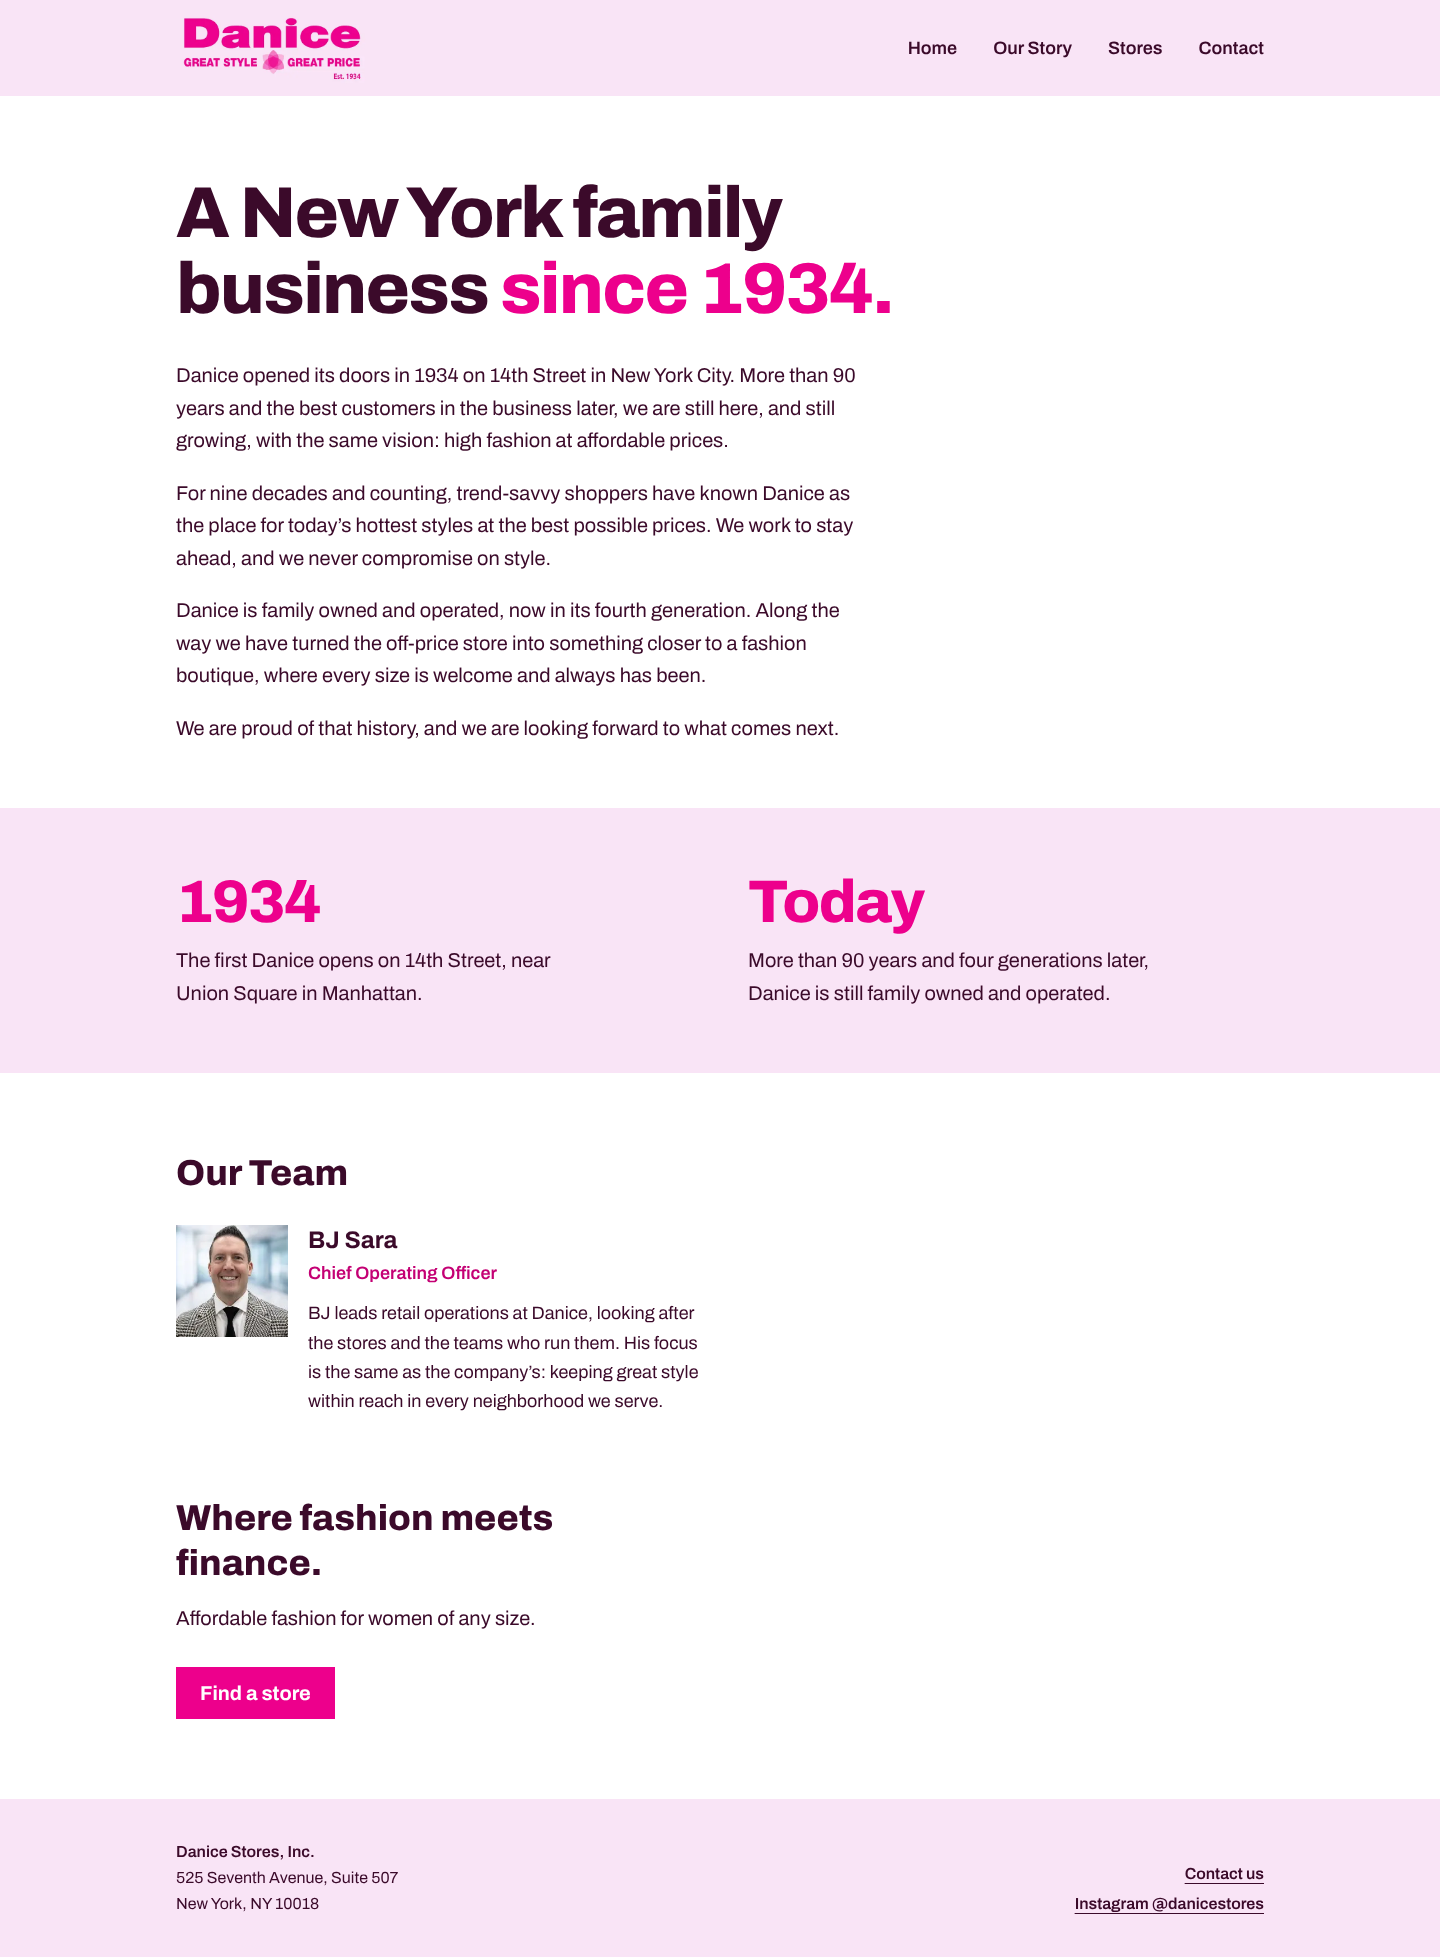
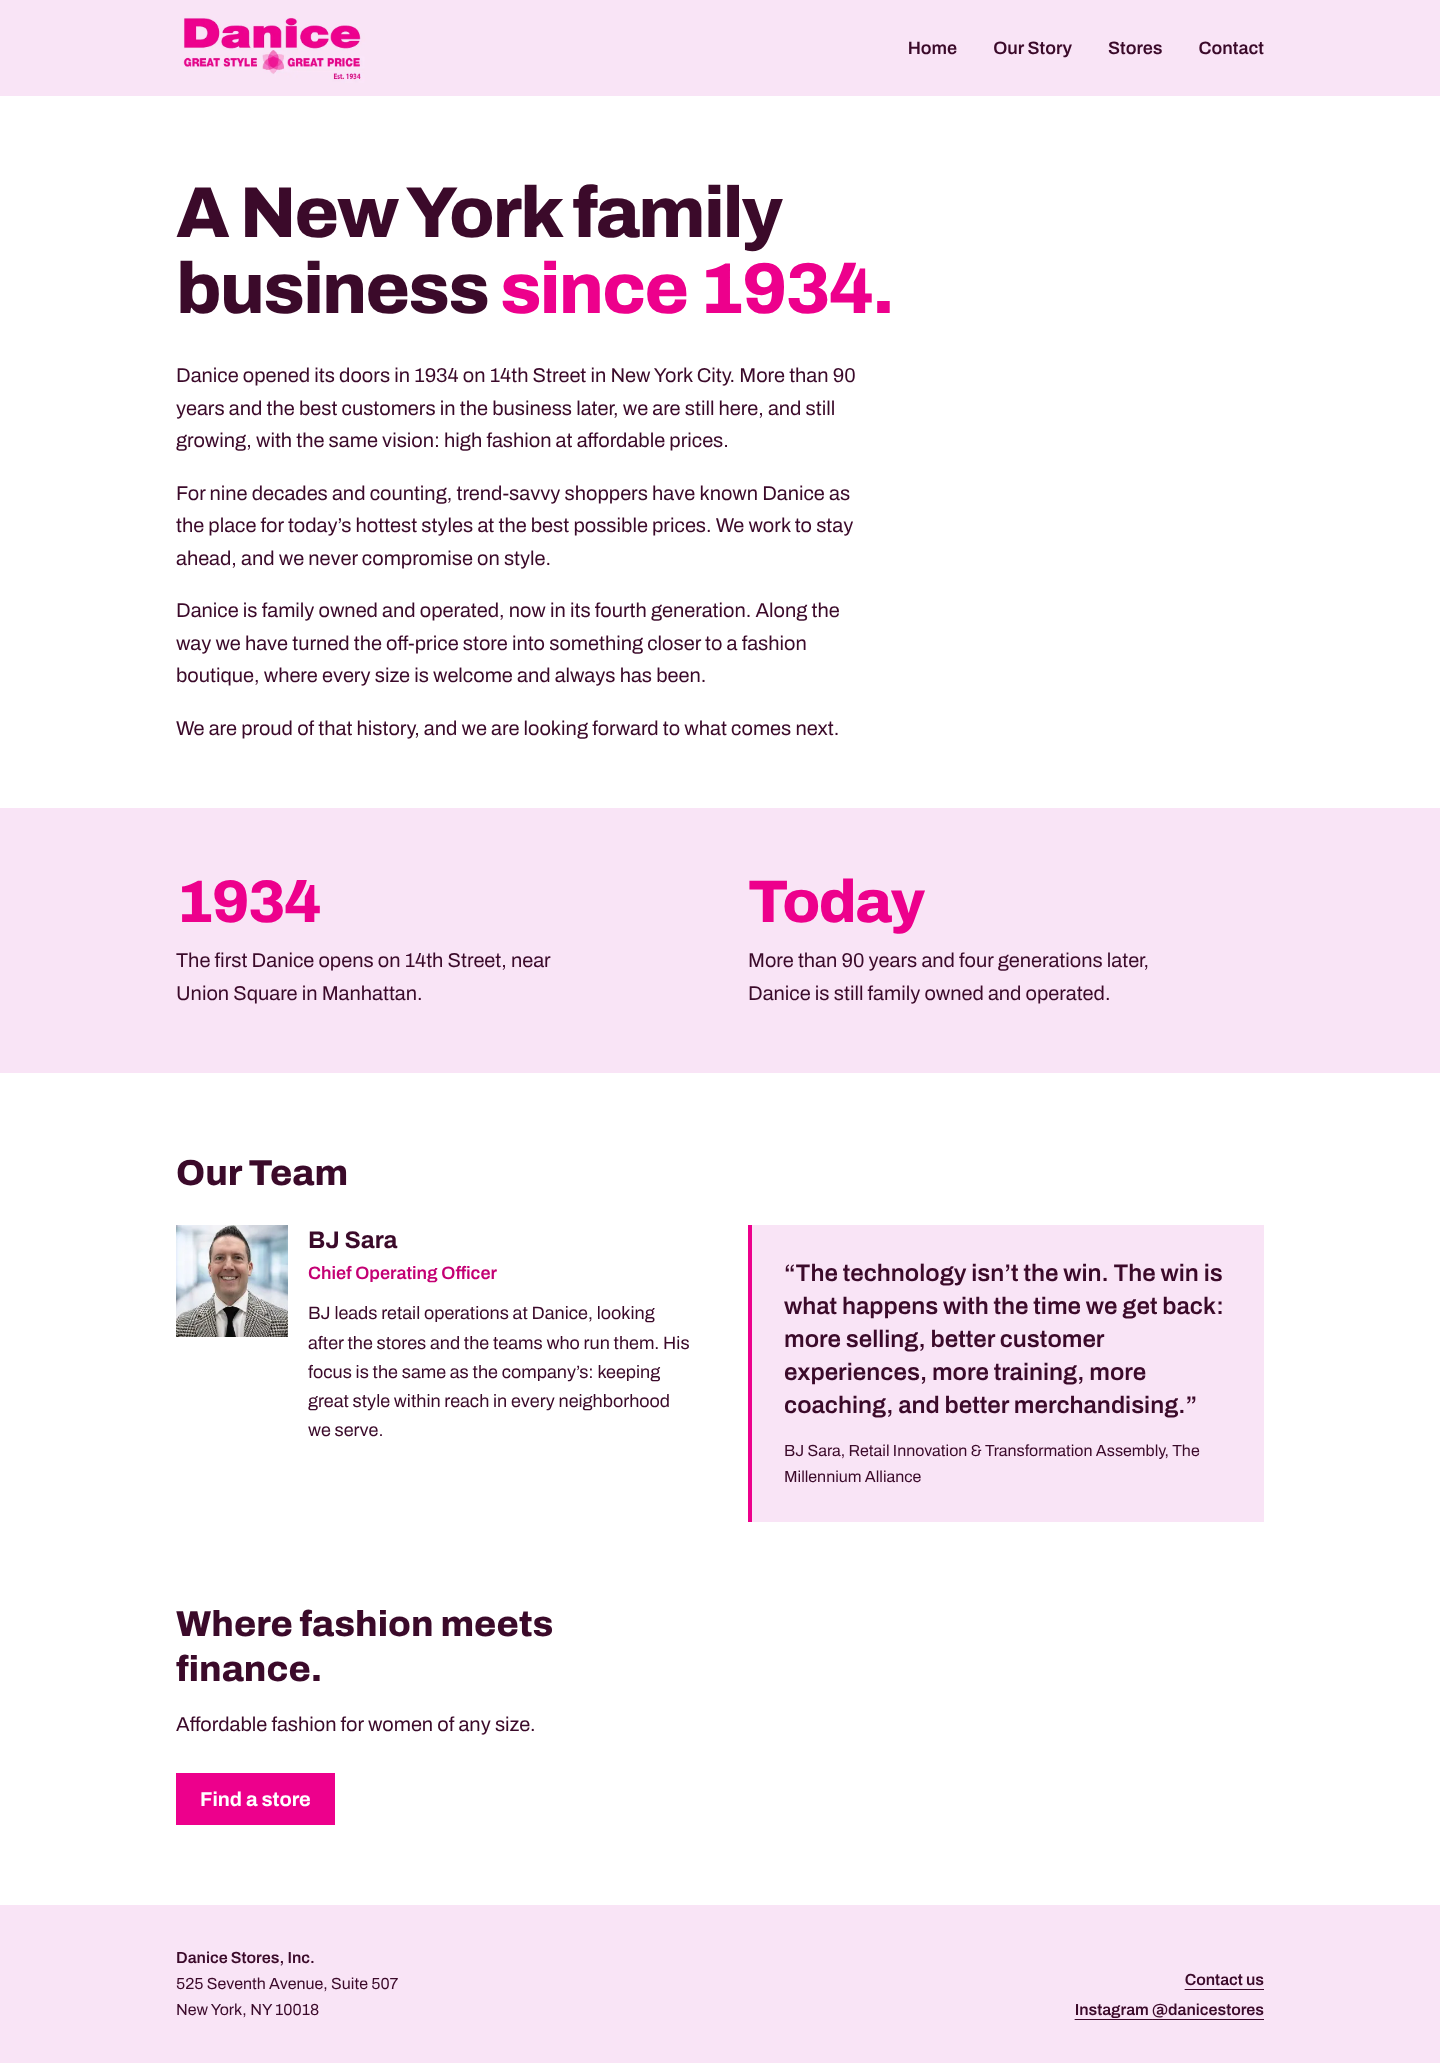
Add BJ Sara's quote beside his bio on the Our Story page
Claude-Session: https://claude.ai/code/session_01GBwygx9tMhKkzG3j5ZdV8Z

diff --git a/app/our-story/page.tsx b/app/our-story/page.tsx
@@ -35,8 +35,8 @@ export default function OurStory() {
         <div className="mt-8 max-w-[60ch] space-y-5 text-xl leading-relaxed">
           <p>
             Danice opened its doors in 1934 on 14th Street in New York City.
-            More than 90 years and the best customers in the business later,
-            we are still here, and still growing, with the same vision: high
+            More than 90 years and the best customers in the business later, we
+            are still here, and still growing, with the same vision: high
             fashion at affordable prices.
           </p>
           <p>
@@ -48,8 +48,8 @@ export default function OurStory() {
           <p>
             Danice is family owned and operated, now in its fourth generation.
             Along the way we have turned the off-price store into something
-            closer to a fashion boutique, where every size is welcome and
-            always has been.
+            closer to a fashion boutique, where every size is welcome and always
+            has been.
           </p>
           <p>
             We are proud of that history, and we are looking forward to what
@@ -67,7 +67,9 @@ export default function OurStory() {
                 <dt className="text-5xl leading-none font-extrabold tracking-tight text-magenta sm:text-6xl">
                   {item.year}
                 </dt>
-                <dd className="mt-3 max-w-[36ch] text-xl leading-relaxed">{item.text}</dd>
+                <dd className="mt-3 max-w-[36ch] text-xl leading-relaxed">
+                  {item.text}
+                </dd>
               </div>
             ))}
           </dl>
@@ -76,21 +78,40 @@ export default function OurStory() {
 
       <section className="mx-auto max-w-6xl px-5 pt-14 sm:px-8 sm:pt-20">
         <h2 className="text-3xl font-extrabold sm:text-4xl">Our Team</h2>
-        <ul className="mt-8 grid gap-8 md:grid-cols-2">
+        <ul className="mt-8 grid gap-10">
           {company.team.map((person) => (
-            <li key={person.name} className="flex gap-5">
-              <Image
-                src={person.photo}
-                alt={person.name}
-                width={112}
-                height={112}
-                className="size-24 shrink-0 object-cover sm:size-28"
-              />
-              <div>
-                <h3 className="text-2xl leading-tight font-bold">{person.name}</h3>
-                <p className="mt-1 text-lg font-semibold text-magenta-deep">{person.title}</p>
-                <p className="mt-3 max-w-[48ch] text-lg leading-relaxed">{person.bio}</p>
+            <li
+              key={person.name}
+              className="grid items-start gap-8 md:grid-cols-2 md:gap-14"
+            >
+              <div className="flex gap-5">
+                <Image
+                  src={person.photo}
+                  alt={person.name}
+                  width={112}
+                  height={112}
+                  className="size-24 shrink-0 object-cover sm:size-28"
+                />
+                <div>
+                  <h3 className="text-2xl leading-tight font-bold">
+                    {person.name}
+                  </h3>
+                  <p className="mt-1 text-lg font-semibold text-magenta-deep">
+                    {person.title}
+                  </p>
+                  <p className="mt-3 max-w-[48ch] text-lg leading-relaxed">
+                    {person.bio}
+                  </p>
+                </div>
               </div>
+              <figure className="border-l-4 border-magenta bg-blush p-6 sm:p-8">
+                <blockquote className="text-2xl leading-snug font-semibold">
+                  &ldquo;{person.quote.text}&rdquo;
+                </blockquote>
+                <figcaption className="mt-4 text-base leading-relaxed">
+                  {person.name}, {person.quote.source}
+                </figcaption>
+              </figure>
             </li>
           ))}
         </ul>

diff --git a/data/company.ts b/data/company.ts
@@ -27,6 +27,10 @@ export const company = {
       name: "BJ Sara",
       title: "Chief Operating Officer",
       photo: "/team/bj-sara.jpg",
+      quote: {
+        text: "The technology isn\u2019t the win. The win is what happens with the time we get back: more selling, better customer experiences, more training, more coaching, and better merchandising.",
+        source: "Retail Innovation & Transformation Assembly, The Millennium Alliance",
+      },
       bio: "BJ leads retail operations at Danice, looking after the stores and the teams who run them. His focus is the same as the company\u2019s: keeping great style within reach in every neighborhood we serve.",
     },
   ],
